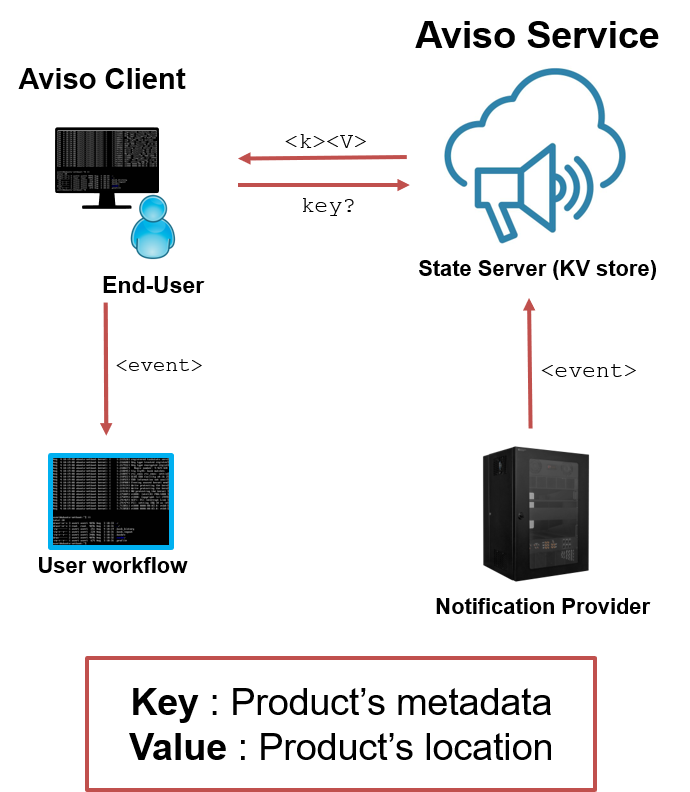
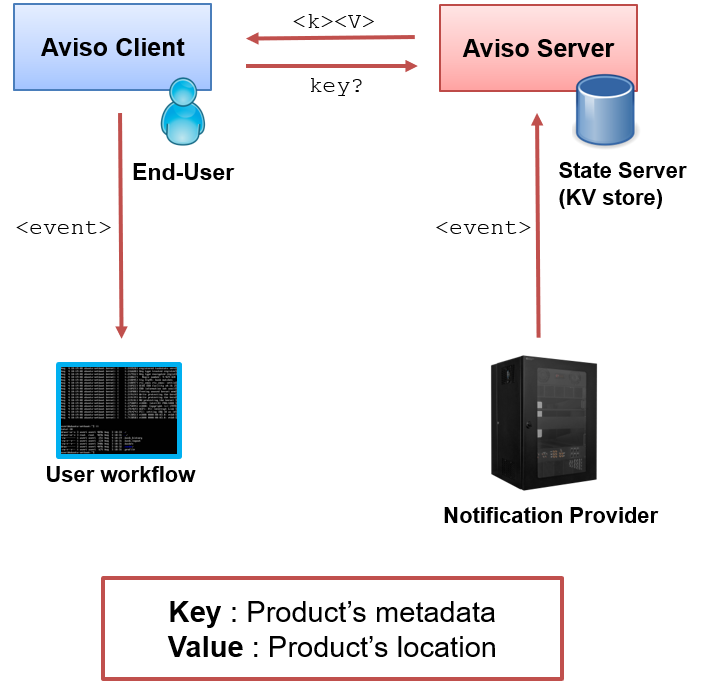
addressing review comments

diff --git a/docs/source/guide/overview.rst b/docs/source/guide/overview.rst
@@ -3,38 +3,67 @@
 Overview
 ========
 
-Aviso is a scalable notification system designed for high-throughput. It is developed by ECMWF with the aim of:
+Aviso is a scalable notification system designed for high-throughput. It is developed by ECMWF - European Centre for Medium-Range Weather Forecasts - with the aim of:
 
-* Notifying **data availability** of:
+* Notifying **events**
+* Triggering users' **workflows**
+* Supporting a semantic **When** <this> … **Do** <that> …
 
-  * Real-Time Model Output Data
-  * Product dissemination via ECPDS
-
-* Intended for **automated** workflows
-* Based on an Event system supporting a mechanism **When** <this> … **Do** <that> …
-
-Figure below shows ECMWF data flow; it starts from the data assimilation of observations, it then follows to the generation of the model output, the real-time global forecast. 
-This is a time critical step for users' workflows and therefore its completion is notified by Aviso. The data flow continues with the generation of derived products that are then
-disseminated via ECMWF ECPDS system. The delivery of these products is also notified by Aviso as users depend on custom products for their downstream applications.  
-
-.. image:: ../_static/data_flow.png
-   :align: center
-
-Aviso is a client-server application. We refer to the notification server as Aviso Service while to the client application as Aviso client or just Aviso. 
-This user guide and the reference are focused on Aviso client. See more info on its architecture in :ref:`aviso_client`
+Aviso is a client-server application. We refer to the notification server as Aviso Server while to the client application as Aviso client or just Aviso. 
+This user guide and the reference are focused on Aviso client. See more info on its architecture in :ref:`aviso_client`.
 
 The server system is based on a persistent key-value store where the events are stored, the key represents the product's metadata while the value, the product's location.
 See more info on the server solution and its components in :ref:`aviso_server`.
 
-Figure below represents the general workflow of the application:
+
+What could I use Aviso for?
+---------------------------
+
+Aviso is developed with the intention of being generic and applicable to various domains and architectures, 
+also independently of ECMWF software systems.
+Aviso can be used for:
+
+* Automating users' workflows requiring ECMWF notifications on data availability. See next section for more details on this service
+* Automating multi-domain workflows across different Clouds and HPC centres. Aviso client can be extended to connect to various general purpose notification systems; similarly 
+  Aviso server can be extended to store generic events and integrate with legacy architectures
+* Configuration Management. See :ref:`configuration_cli` for more info
+
+ECMWF Aviso service
+-------------------
+
+ECMWF has deployed a notification service for the data availability of:
+
+  * Real-Time Model Output Data
+  * Products delivered via ECMWF dissemination system
+
+Figure below shows ECMWF data flow; it starts from the data assimilation of observations, it then follows to the generation of the model output, the real-time global forecast. 
+This is a time critical step for users' workflows and therefore its completion is notified by Aviso. The data flow continues with the generation of derived products that are then
+disseminated via ECMWF dissemination system. The delivery of these products is also notified by Aviso as users depend on custom products for their downstream applications.  
+
+.. image:: ../_static/data_flow.png
+   :align: center
+
+This service is based on the Aviso server solution presented in :ref:`aviso_server`. 
+
+.. warning::
+
+   ECMWF Aviso service is currently limited to registered users only. Please contact `ECMWF Service Desk`__ for more details.
+
+__ https://www.ecmwf.int/en/about/contact-us
+
+
+Aviso General Workflow
+----------------
+
+Figure below represents the general workflow of the Aviso application:
 
 1. Aviso client allows an End-User to subscribe to an event and to program a trigger
-2. Aviso client polls for changes to the defined event
-3. A notification provider submits a notification
+2. Aviso client polls Aviso server for changes to the defined event
+3. A notification provider submits a notification to Aviso server
 4. The subscriber is notified with a new event
-5. The event triggers user’s workflow
+5. The event triggers the user’s workflow
+
 
 .. image:: ../_static/workflow.png
    :width: 50%
    :align: center
-

diff --git a/docs/source/guide/getting_started.rst b/docs/source/guide/getting_started.rst
@@ -3,7 +3,8 @@
 Getting Started
 ===============
 Aviso can be used as a Python API or as Command-Line Interface (CLI) application. Below find a few steps to quickly get a working configuration, able to listen to notifications.
-Note that Aviso is a client application, this assumes that a notification server is up and running.
+Note that Aviso is a client application, the following quick start shows how to connect to the ECMWF notification service, that is the current default configuration. For alternative configurations 
+see :ref:`configuration`.
 
 Installing
 ----------
@@ -34,7 +35,7 @@ Configuring
 
    .. code-block:: yaml
 
-      username: <ECMWF user email>
+      username: <...>
       listeners:
          - event: mars
          request:
@@ -50,11 +51,15 @@ Configuring
    This is a basic example of a listener to real-time forecast events, this is identified by the keyword ``mars``. 
    The block ``request`` describes for which events the user wants to execute the triggers. It is made by a list of attributes. The users 
    have to specify only the attributes that they want to use as filters. Only the notifications complying with all the 
-   attributes defined will execute the triggers. 
+   attributes defined will execute the triggers. These attributes are a subset of the ECMWF MARS_ language.
+
+   .. _MARS: https://www.ecmwf.int/en/forecasts/datasets/archive-datasets
 
    The trigger in this example is ``echo``. This will simply print out the notification to the console output.
 
-   The username is the email associated to the user's ECMWF account. The email can be obtained by logging on to https://api.ecmwf.int/v1/key/
+   In the default configuration, the authentication have to comply with ECMWF authentication requirements. In this case, the username is the 
+   email associated to the user's ECMWF account. The email can be obtained by logging on to https://api.ecmwf.int/v1/key/. Similarly a key 
+   is required as shown by next step.
 
 2. Save the ECMWF key in `/etc/aviso/key`. The key can be obtained by logging on to https://api.ecmwf.int/v1/key/ A 
 different location can be defined in the configuration file above described. More information is available in the :ref:`configuration`.

diff --git a/docs/source/guide/defining_my_listener.rst b/docs/source/guide/defining_my_listener.rst
@@ -27,16 +27,19 @@ Here is a basic example:
 Event
 -----
 
-Aviso offers notifications for the following types of events:
+Aviso is currently offering notifications for the following types of events:
 
-* **dissemination** event is submitted by the product dissemination system ECPDS. The related listener configuration must define the ``destination`` field. A notification related to a dissemination event will have the field ``location`` containing the URL to the product notified
-* **mars** event is designed for real-time data from the ECMWF model output. The related listener configuration does not have any mandatory fields. Moreover the related notification will not contain the location field because users will have to access to it by the conventional MARS_ API
+* **dissemination** event is submitted by the ECMWF product dissemination system. The related listener configuration must define the ``destination`` field. A notification related to a dissemination event will have the field ``location`` containing the URL to the product notified
+* **mars** event is designed for real-time data from the ECMWF model output. The related listener configuration does not have any mandatory fields. Moreover the related notification will not contain the location field because users will have to access to it by the conventional ECMWF MARS_ API
 
 .. _MARS: https://www.ecmwf.int/en/forecasts/datasets/archive-datasets
 
+These events are ECMWF specific. However, Aviso can be extended to handle different kind of events. The event type defines the translation to go from the event's metadata to the key that will be used as 
+key-value pair to store the event in Aviso server. The various translations are defined in a schema file.
+
 Request
 -------
-The table below shows the full list of fields accepted in a ``request`` block. These fields represent a subset of the MARS language.
+The table below shows the full list of fields accepted in a ``request`` block. These fields represent a subset of the ECMWF MARS_ language.
 
 +------------+----------------------+--------------+--------------------+
 |Field       |Type                  | Event        | Optional/Mandatory |

diff --git a/docs/source/reference/configuration.rst b/docs/source/reference/configuration.rst
@@ -150,7 +150,7 @@ Configuration file     .. code-block:: yaml
 
 Notification Engine
 -------------------
-This group of settings defines the connection to the notification server.
+This group of settings defines the connection to the notification server. The current defaults allow the connection to the ECMWF Aviso service.
 
 Host
 ^^^^
@@ -274,7 +274,7 @@ Configuration file     .. code-block:: yaml
 Configuration Engine
 --------------------
 
-This group of settings defines the connection to the configuration management server. The current defaults show  ECMWF notification server working also as configuration server. 
+This group of settings defines the connection to the configuration management server. The current defaults allows connecting to the ECMWF Aviso service also as configuration server. 
 This is however not a requirement and different servers can be used. See :ref:`configuration_cli` for more information.
 
 Host

diff --git a/docs/source/contributing/aviso_server.rst b/docs/source/contributing/aviso_server.rst
@@ -5,7 +5,10 @@
 Aviso Server Architecture
 =========================
 
-Figure below shows the high-level architecture of Aviso server.
+This section presents the general architecture for Aviso server. It shows components that are ECMWF specific such as Aviso Auth while others that are generic such as the key-value store.
+This architecture can therefore evolve and adapt to different infrastructures that are available to the users.
+
+Figure below shows the current high-level architecture of Aviso server.
 
 .. image:: ../_static/server_architecture.png
 

diff --git a/docs/source/reference/python_api.rst b/docs/source/reference/python_api.rst
@@ -50,7 +50,7 @@ manager object will instantiate a config object that follows the criteria explai
 
 Notify
 ------
-This method is used to submit notification. End-users are not currently allowed to submit to ECMWF notification server but 
+This method is used to submit notification. End-users are not currently allowed to submit to the ECMWF Aviso service but 
 they can submit notification in test mode, see :ref:`testing_my_listener`, or to local instances of the store.
 The example belows shows how to send a ``mars`` notification.
 

diff --git a/docs/source/guide/examples/mars_request_example.rst b/docs/source/guide/examples/mars_request_example.rst
@@ -3,7 +3,7 @@
 MARS Request
 =================
 
-Below find a real-life example of an event listener for ``mars`` events that will execute a ``MARS`` request 
+Below find a real-life example of an event listener for ``mars`` events that will execute a MARS_ request 
 in case of notifications.
 
 .. literalinclude:: mars_command_listener.yaml
@@ -14,3 +14,5 @@ from the trigger to the script.
 
 .. literalinclude:: mars_script.sh
    :language: sh
+
+.. _MARS: https://www.ecmwf.int/en/forecasts/datasets/archive-datasets

diff --git a/docs/source/guide/examples/python_examples.rst b/docs/source/guide/examples/python_examples.rst
@@ -10,7 +10,7 @@ in case of notifications.
    :language: python
 
 Below find a real-life Python example of an event listener for ``mars`` events that will execute a MARS_ request in
-case of notifications. Note how easy is to construct the `MARS` request from the notification. This is because they 
+case of notifications. Note how easy is to construct the `MARS` request from the notification, they 
 both speak the `MARS` language.
 
 .. _MARS: https://www.ecmwf.int/en/forecasts/datasets/archive-datasets

diff --git a/docs/source/guide/past_notifications.rst b/docs/source/guide/past_notifications.rst
@@ -17,7 +17,7 @@ run the following:
 
 This command will also reset the notification history.
 
-Users can also explicitly replay past notifications. Aviso can deliver notifications from the ECMWF server 
+Users can also explicitly replay past notifications until available. ECMWF Aviso service currently stores notifications 
 up to 14 days in the past. This can also be used to test the listener configuration with real notifications.
 Here is an example, launch Aviso with the following options:
 

diff --git a/docs/source/guide/examples/post_examples.rst b/docs/source/guide/examples/post_examples.rst
@@ -4,7 +4,7 @@ Post
 =================
 
 Below find an example of a basic event listener for ``dissemination`` events that will execute a ``post`` trigger 
-in case of notifications. Specifically this trigger will format the notification according to the CloudEvent_ 
+in case of notifications. Specifically, this trigger will format the notification according to the CloudEvent_ 
 specification and will send it to the endpoint defined by the user.
 
 .. _CloudEvent: https://cloudevents.io/

diff --git a/docs/source/index.rst b/docs/source/index.rst
@@ -50,6 +50,7 @@ See :ref:`overview` for more information.
 License 
 -------
 
-*Aviso* is available under the open source `Apache License`__.
+*Aviso* is available under the open source `Apache License`__. In applying this licence, ECMWF does not waive the privileges and immunities 
+granted to it by virtue of its status as an intergovernmental organisation nor does it submit to any jurisdiction.
 
 __ http://www.apache.org/licenses/LICENSE-2.0.html

diff --git a/docs/source/guide/python_api.rst b/docs/source/guide/python_api.rst
@@ -28,4 +28,4 @@ creates a listener that references this function trigger and finally passes it t
    aviso.listen(listeners=listeners)
 
 .. note::
-   The example is assuming the default configuration file ~/aviso/config.yaml is defined for authentication purposes as in :ref:`getting_started`.
+   The example is assuming the default configuration file ~/aviso/config.yaml is defined for authentication purposes as explained in :ref:`getting_started`.
